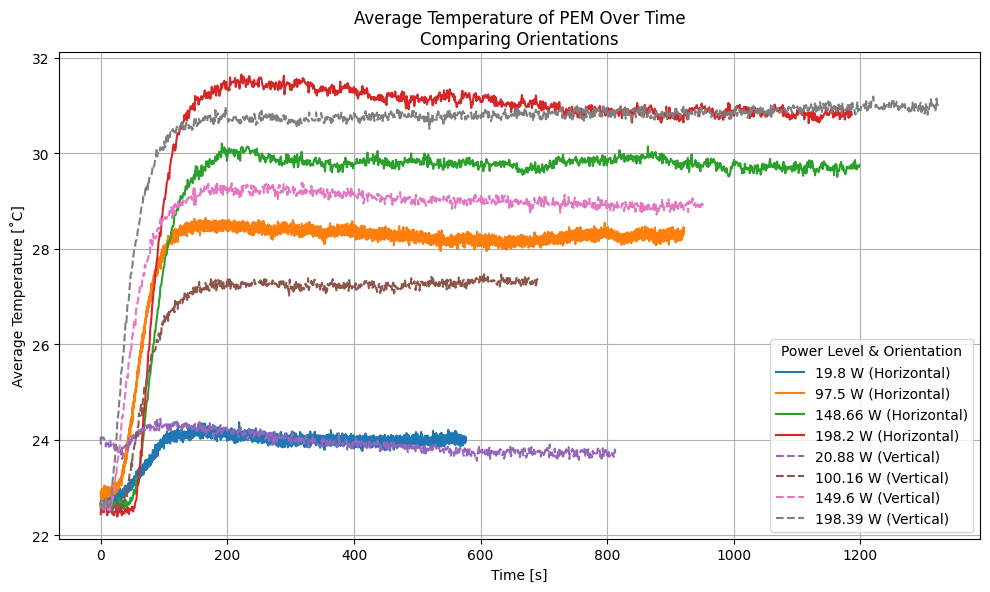
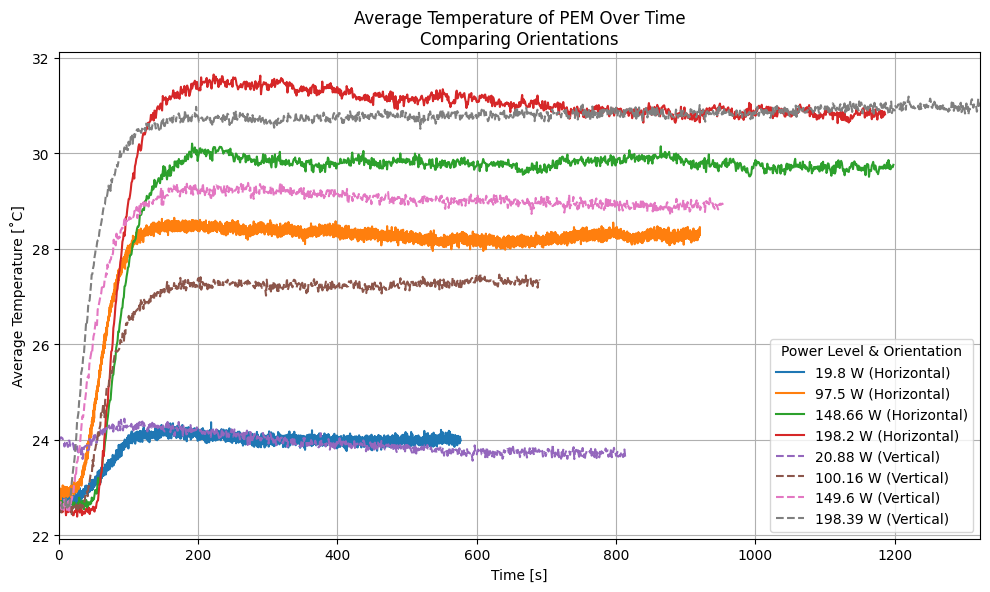
multi-file graph scale fixes

diff --git a/graph.py b/graph.py
@@ -86,6 +86,8 @@ def plot_avg_temp_by_power(data_dir):
 
     orientation = "Horizontal" if "horizontal" in data_dir.lower() else "Vertical"
 
+    plt.autoscale(enable=True, axis='x', tight=True)
+    plt.xlim(left=0)
     plt.title(f"Average Temperature of PEM Over Time\nOrientation: {orientation}")
     plt.xlabel("Time [s]")
     plt.ylabel("Average Temperature [˚C]")
@@ -135,6 +137,8 @@ def plot_avg_temp_by_power_all(data_dir):
             label = f"{power} W ({orientation.capitalize()})"
             plt.plot(time, avg_temp, line_styles[orientation], label=label)
 
+    plt.autoscale(enable=True, axis='x', tight=True)
+    plt.xlim(left=0)
     plt.title("Average Temperature of PEM Over Time\nComparing Orientations")
     plt.xlabel("Time [s]")
     plt.ylabel("Average Temperature [˚C]")
